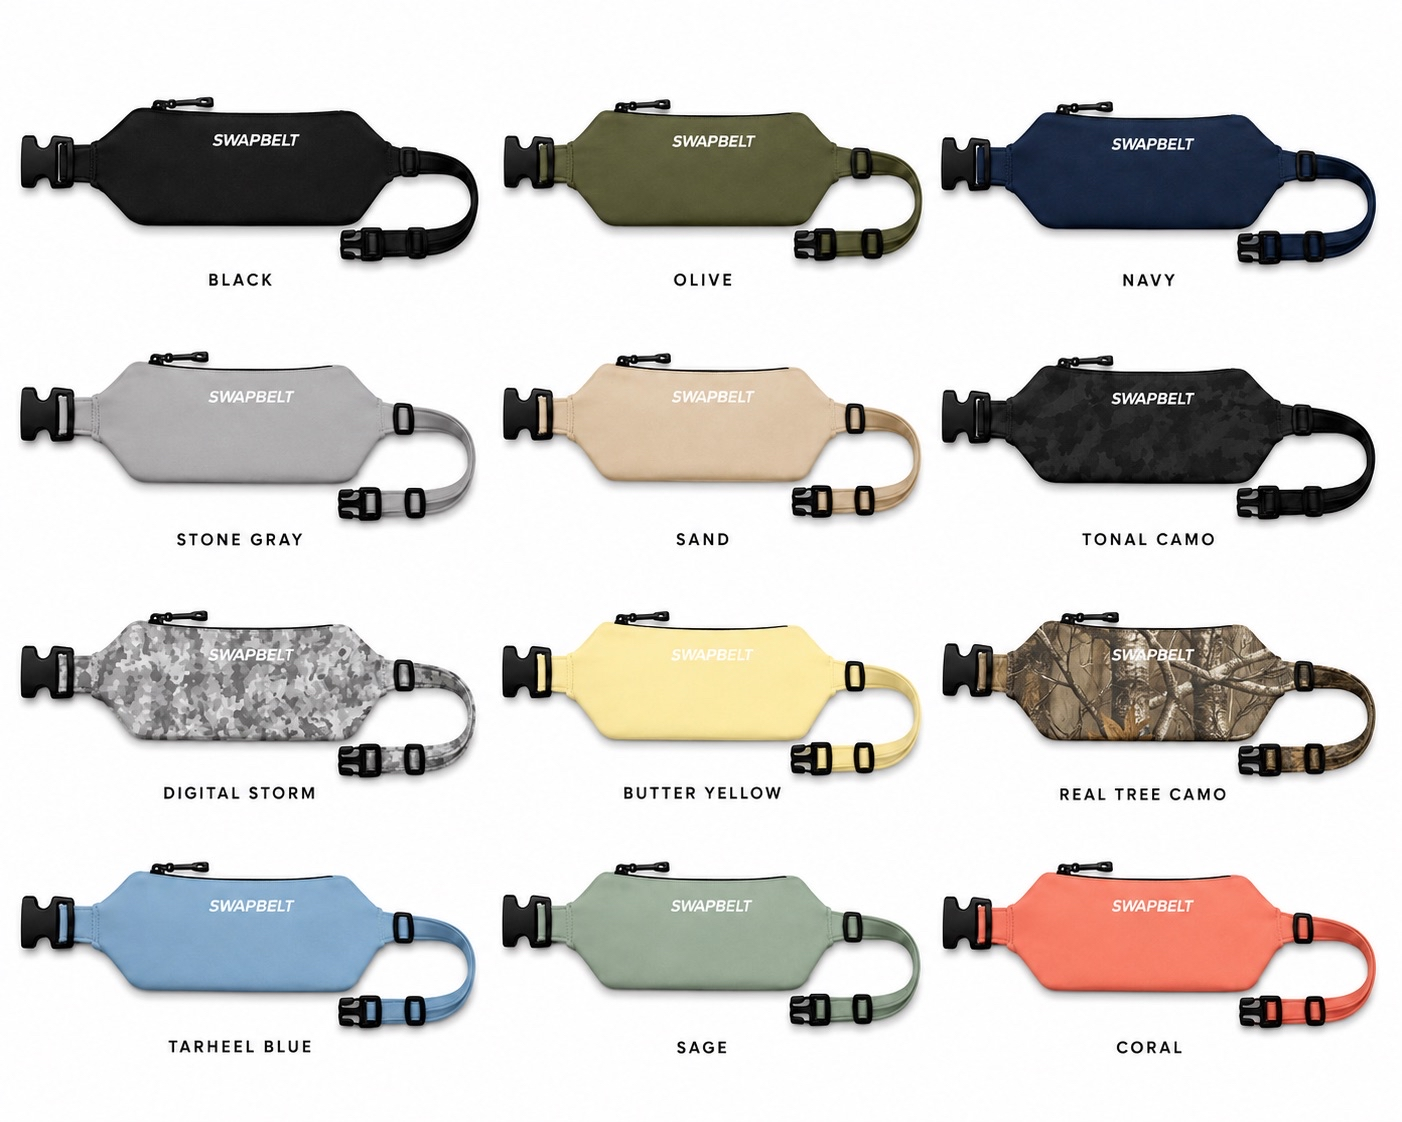
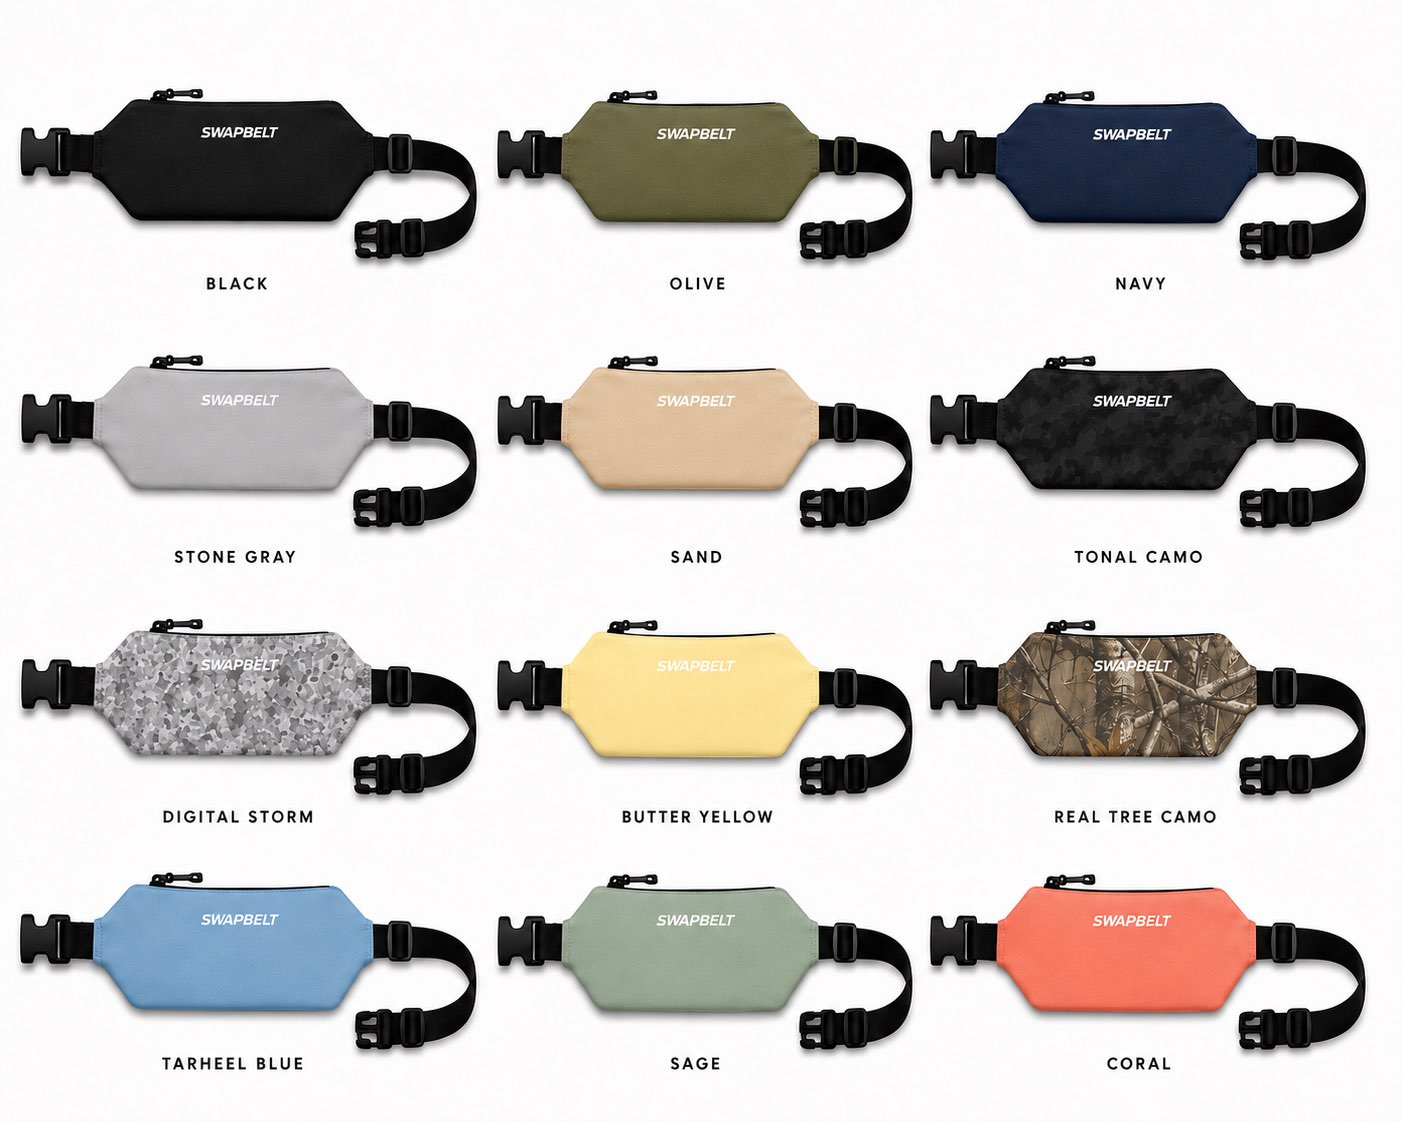
content: swap skyline lifestyle photo, update belt styles lineup, mark core refinement complete

diff --git a/index.html b/index.html
@@ -130,7 +130,7 @@
                         <div class="status-item done"><span>✓</span><p>Secure fit validated</p></div>
                         <div class="status-item done"><span>✓</span><p>Waterproof storage concept validated</p></div>
                         <div class="status-item done"><span>✓</span><p>Belt interchangeability validated</p></div>
-                        <div class="status-item active"><span>↻</span><p>Core refinement in progress</p></div>
+                        <div class="status-item done"><span>✓</span><p>Core refinement complete</p></div>
                         <div class="status-item active"><span>↻</span><p>Production prototype underway</p></div>
                     </div>
                 </div>
